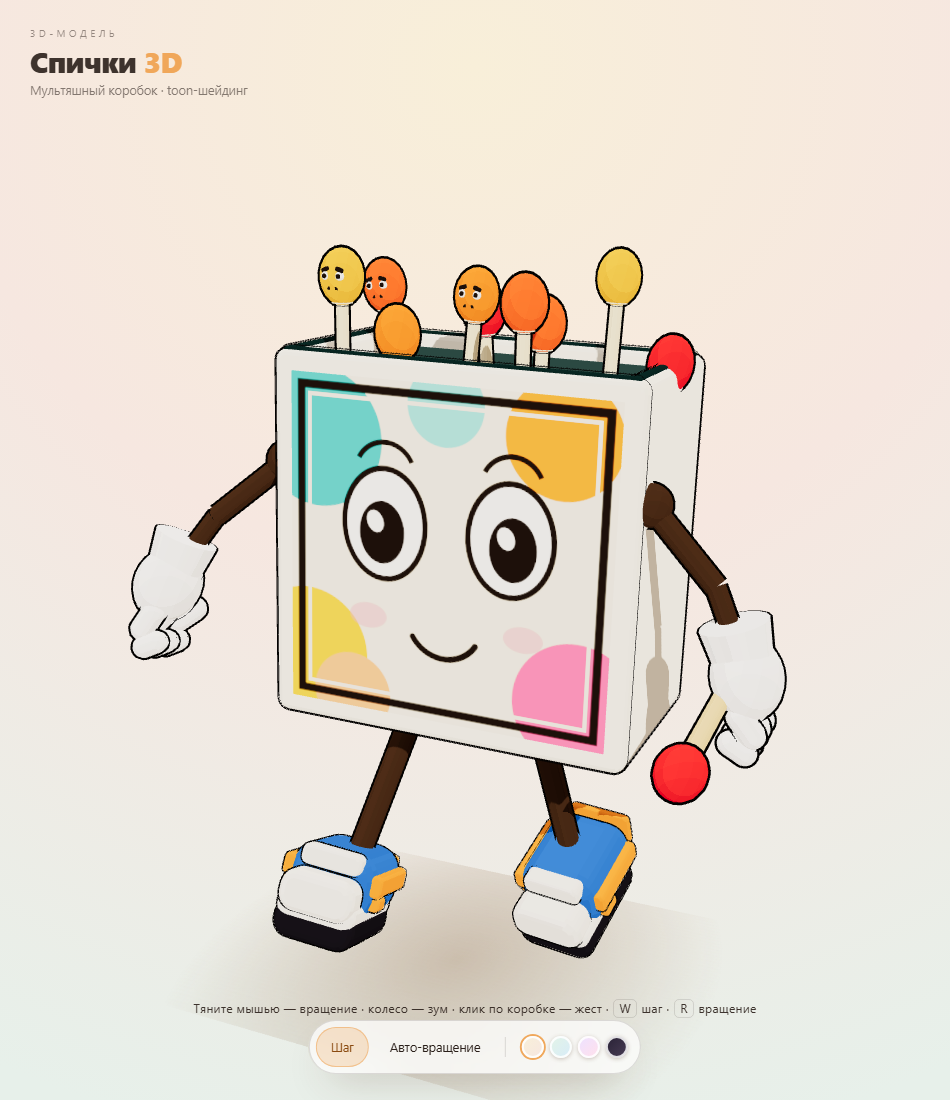
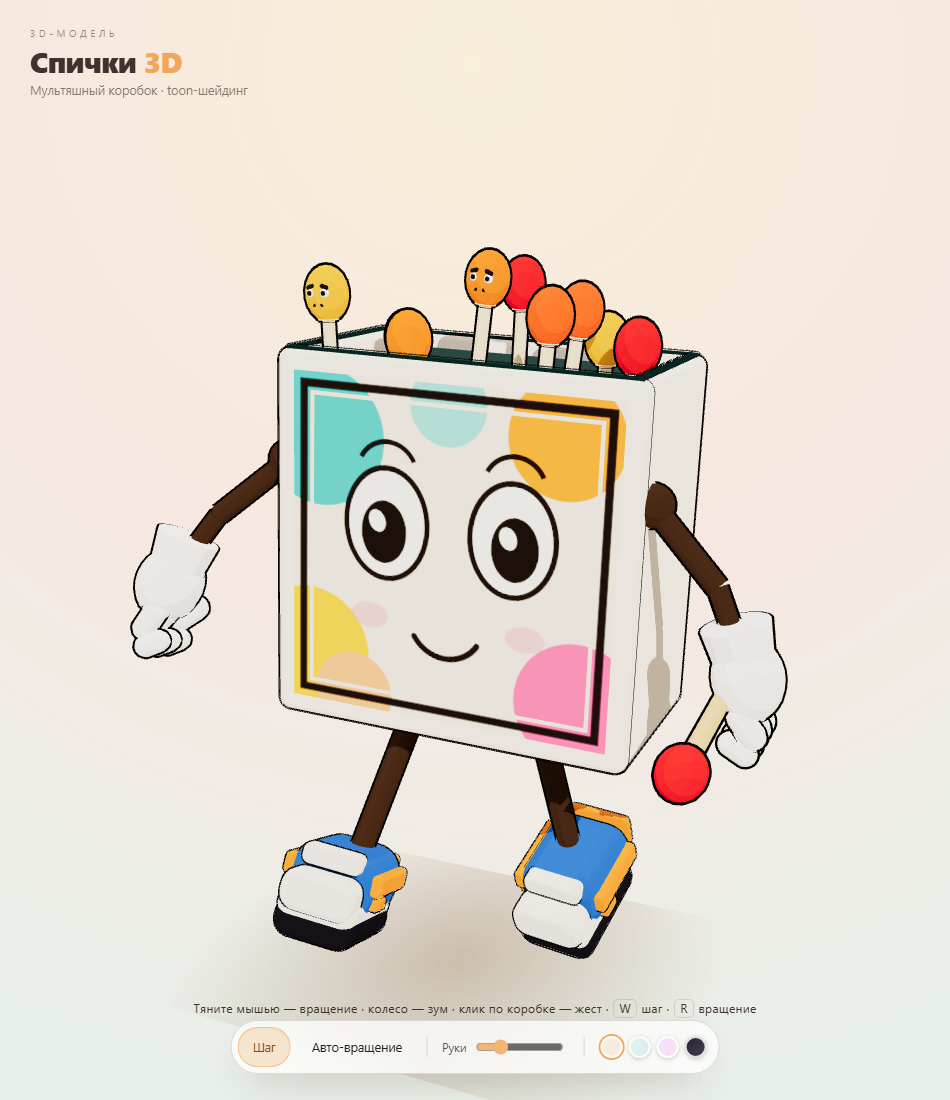
feat(matchbox): arm angle slider in the UI, default 17 deg

diff --git a/dist/matchbox.html b/dist/matchbox.html
@@ -48,6 +48,8 @@
   .dots i{width:22px;height:22px;border-radius:50%;cursor:pointer;display:block;
     border:2px solid rgba(255,255,255,.85);box-shadow:0 1px 4px rgba(80,50,30,.28);transition:transform .15s ease}
   .dots i:hover{transform:scale(1.12)}
+  .rng{display:flex;align-items:center;gap:7px;font-size:11.5px;opacity:.75;padding:0 8px 0 4px}
+  .rng input{width:88px;accent-color:#f0a04b;cursor:pointer}
 
   .hint{position:fixed;left:0;right:0;bottom:84px;text-align:center;font-size:11.5px;letter-spacing:.05em;
     opacity:.5;pointer-events:none;opacity:0;animation:rise .9s .6s ease forwards}
@@ -82,6 +84,8 @@
 <div class="bar">
   <button data-act="walk" class="on">Шаг</button>
   <button data-act="spin">Авто-вращение</button>
+  <span class="sep"></span>
+  <label class="rng" title="Угол рук">Руки<input id="armA" type="range" min="-15" max="120" value="17" step="1"></label>
   <span class="sep"></span>
   <div class="dots">
     <i data-bg="cream" style="background:linear-gradient(135deg,#f8efd9,#f6e7e0)"></i>
@@ -548,7 +552,7 @@ scene.add(rimLight);
 /* ---------------------------------------------------------------- камера */
 const target = new THREE.Vector3(0, 1.14, 0);
 const cam = {az:.44, pol:1.34, rad:3.60, taz:.44, tpol:1.34, trad:3.60};
-let spin = false, walkOn = true;
+let spin = false, walkOn = true, armDeg = 17;
 let dragging = false, lastX = 0, lastY = 0, moved = 0, lastInteract = performance.now();
 
 function applyCamera(){
@@ -625,6 +629,9 @@ function setBg(name){
   document.querySelectorAll('.bar button').forEach(function(x){ x.style.color = night ? '#f6ecff' : ''; });
 }
 
+const armA = document.getElementById('armA');
+if (armA) armA.addEventListener('input', function(){ armDeg = +armA.value; });
+
 addEventListener('keydown', function(e){
   const k = e.key.toLowerCase();
   if (k === 'w'){ walkOn = !walkOn; document.querySelector('[data-act=walk]').classList.toggle('on', walkOn); }
@@ -678,16 +685,16 @@ function frame(){
     legPivots.R.rotation.z = .06;
     armPivots.R.rotation.x = Math.sin(stepPhase + Math.PI) * .16;
     armPivots.L.rotation.x = Math.sin(stepPhase) * .16;
-    armPivots.R.rotation.z = .30;
-    armPivots.L.rotation.z = -.30;
+    armPivots.R.rotation.z = armDeg * Math.PI / 180;
+    armPivots.L.rotation.z = -armDeg * Math.PI / 180;
   } else {
     legPivots.L.rotation.x += (0 - legPivots.L.rotation.x) * ck;
     legPivots.R.rotation.x += (0 - legPivots.R.rotation.x) * ck;
     ['L', 'R'].forEach(function(k){
       armPivots[k].rotation.x += (0 - armPivots[k].rotation.x) * ck;
     });
-    armPivots.R.rotation.z = .30;
-    armPivots.L.rotation.z = -.30;
+    armPivots.R.rotation.z = armDeg * Math.PI / 180;
+    armPivots.L.rotation.z = -armDeg * Math.PI / 180;
   }
 
   // «жест» по клику: машем перчаткой

diff --git a/src/matchbox/index.html b/src/matchbox/index.html
@@ -48,6 +48,8 @@
   .dots i{width:22px;height:22px;border-radius:50%;cursor:pointer;display:block;
     border:2px solid rgba(255,255,255,.85);box-shadow:0 1px 4px rgba(80,50,30,.28);transition:transform .15s ease}
   .dots i:hover{transform:scale(1.12)}
+  .rng{display:flex;align-items:center;gap:7px;font-size:11.5px;opacity:.75;padding:0 8px 0 4px}
+  .rng input{width:88px;accent-color:#f0a04b;cursor:pointer}
 
   .hint{position:fixed;left:0;right:0;bottom:84px;text-align:center;font-size:11.5px;letter-spacing:.05em;
     opacity:.5;pointer-events:none;opacity:0;animation:rise .9s .6s ease forwards}
@@ -82,6 +84,8 @@
 <div class="bar">
   <button data-act="walk" class="on">Шаг</button>
   <button data-act="spin">Авто-вращение</button>
+  <span class="sep"></span>
+  <label class="rng" title="Угол рук">Руки<input id="armA" type="range" min="-15" max="120" value="17" step="1"></label>
   <span class="sep"></span>
   <div class="dots">
     <i data-bg="cream" style="background:linear-gradient(135deg,#f8efd9,#f6e7e0)"></i>
@@ -541,7 +545,7 @@ scene.add(rimLight);
 /* ---------------------------------------------------------------- камера */
 const target = new THREE.Vector3(0, 1.14, 0);
 const cam = {az:.44, pol:1.34, rad:3.60, taz:.44, tpol:1.34, trad:3.60};
-let spin = false, walkOn = true;
+let spin = false, walkOn = true, armDeg = 17;
 let dragging = false, lastX = 0, lastY = 0, moved = 0, lastInteract = performance.now();
 
 function applyCamera(){
@@ -618,6 +622,9 @@ function setBg(name){
   document.querySelectorAll('.bar button').forEach(function(x){ x.style.color = night ? '#f6ecff' : ''; });
 }
 
+const armA = document.getElementById('armA');
+if (armA) armA.addEventListener('input', function(){ armDeg = +armA.value; });
+
 addEventListener('keydown', function(e){
   const k = e.key.toLowerCase();
   if (k === 'w'){ walkOn = !walkOn; document.querySelector('[data-act=walk]').classList.toggle('on', walkOn); }
@@ -671,16 +678,16 @@ function frame(){
     legPivots.R.rotation.z = .06;
     armPivots.R.rotation.x = Math.sin(stepPhase + Math.PI) * .16;
     armPivots.L.rotation.x = Math.sin(stepPhase) * .16;
-    armPivots.R.rotation.z = .30;
-    armPivots.L.rotation.z = -.30;
+    armPivots.R.rotation.z = armDeg * Math.PI / 180;
+    armPivots.L.rotation.z = -armDeg * Math.PI / 180;
   } else {
     legPivots.L.rotation.x += (0 - legPivots.L.rotation.x) * ck;
     legPivots.R.rotation.x += (0 - legPivots.R.rotation.x) * ck;
     ['L', 'R'].forEach(function(k){
       armPivots[k].rotation.x += (0 - armPivots[k].rotation.x) * ck;
     });
-    armPivots.R.rotation.z = .30;
-    armPivots.L.rotation.z = -.30;
+    armPivots.R.rotation.z = armDeg * Math.PI / 180;
+    armPivots.L.rotation.z = -armDeg * Math.PI / 180;
   }
 
   // «жест» по клику: машем перчаткой
